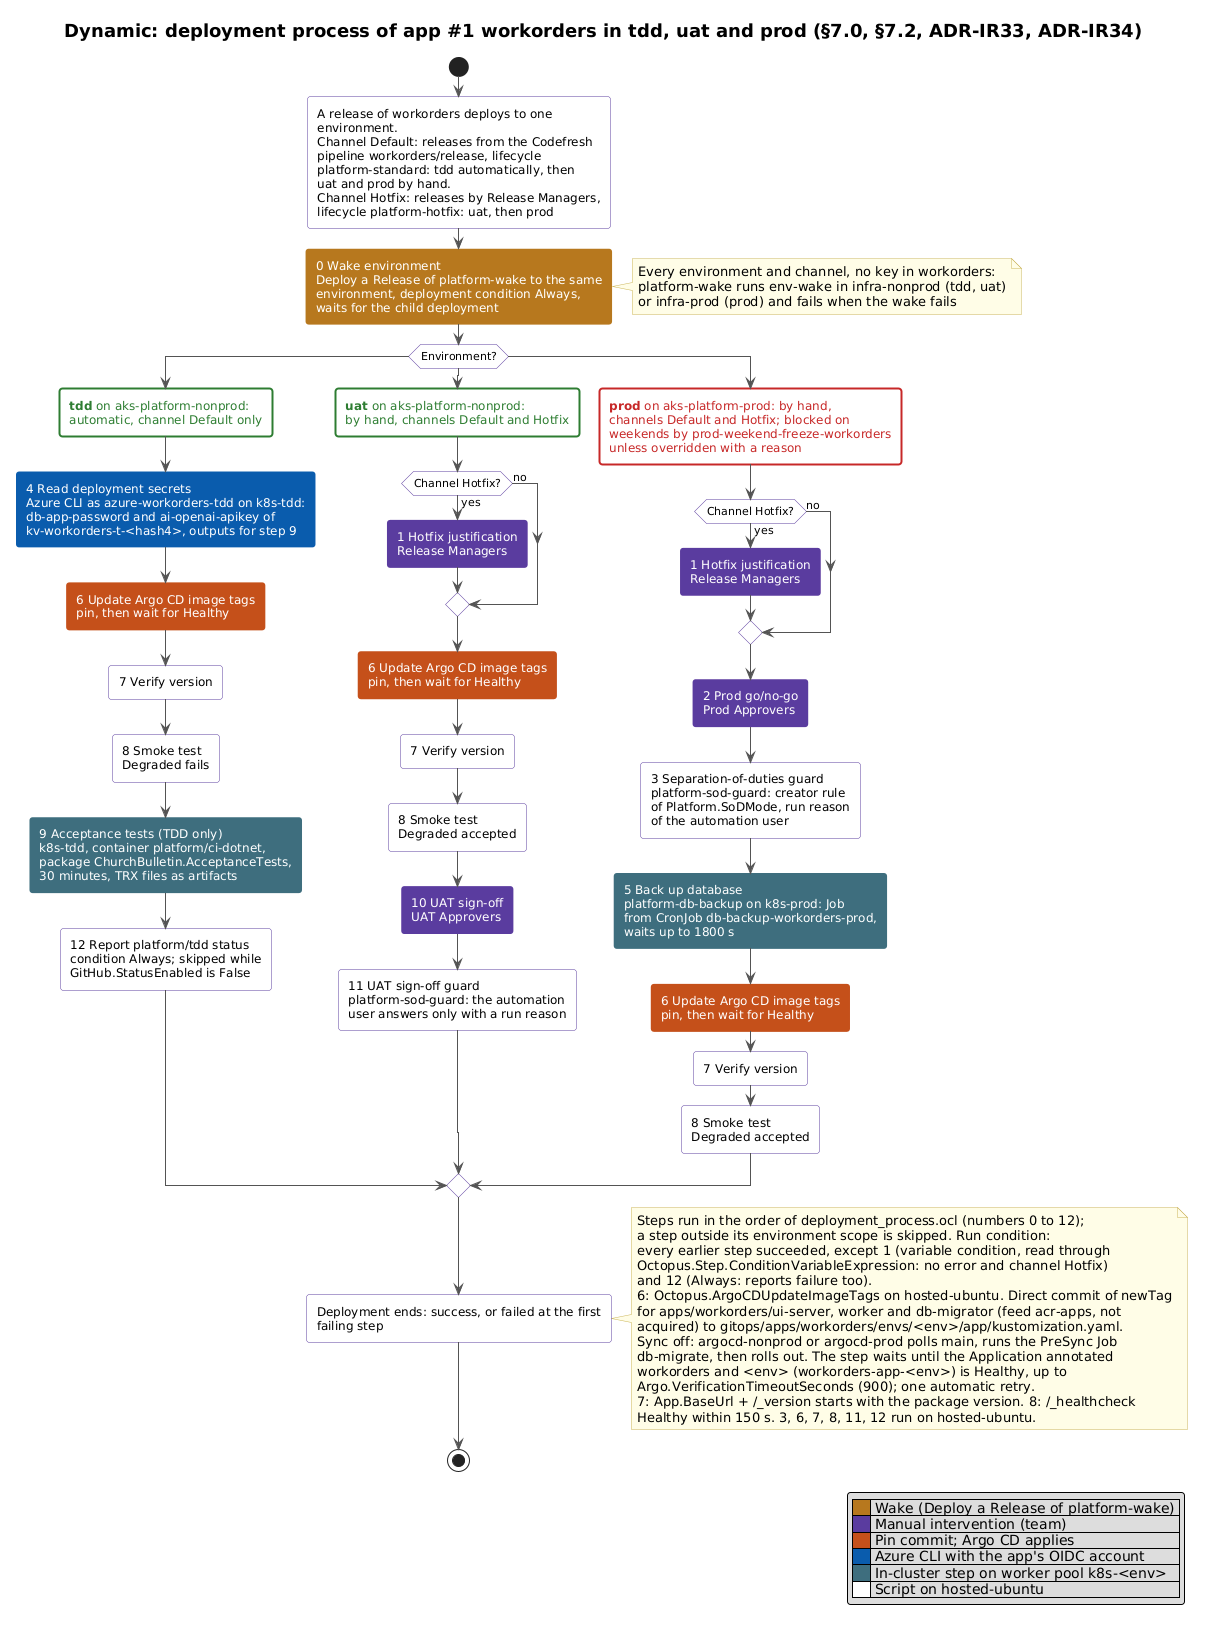
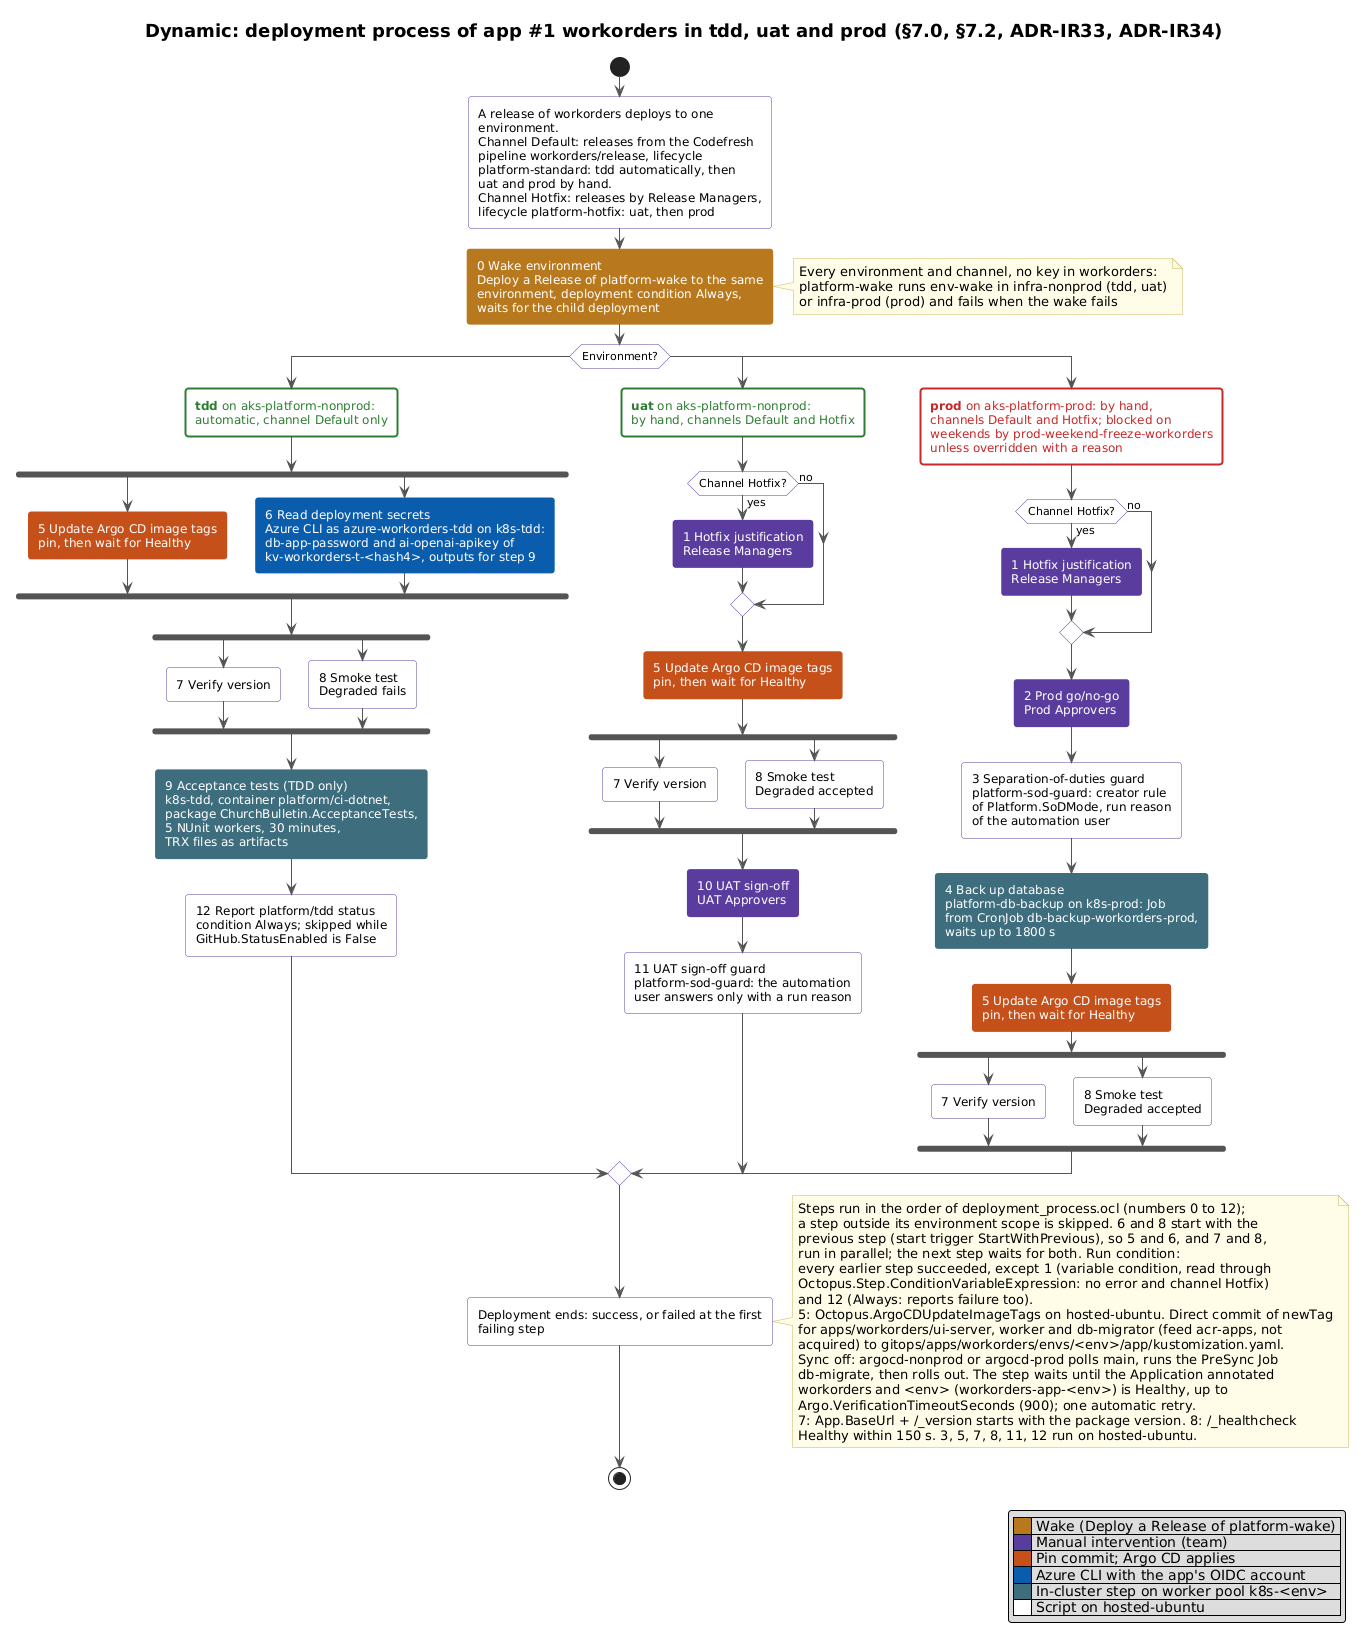
workorders tdd: secrets alongside the pin, 5 NUnit workers, tdd script-pod resources
- read-deployment-secrets moves right after update-argo-cd-image-tags with
  start_trigger StartWithPrevious. Its outputs (AcceptancePassword, OpenAIKey)
  are read only by acceptance-tests; the pin reads nothing from it.
- acceptance-tests passes "-- NUnit.NumberOfTestWorkers=5" (runsettings: 4).
- terraform/tier: new variable octopus_worker_script_pod_resources (chart value
  scriptPods.resources per environment). nonprod sets tdd to requests 400m CPU
  / 2Gi, limit 6Gi memory, no CPU limit. The single 4-vCPU apps node has only
  856m CPU unrequested and script pods cannot leave the agent's node
  (ReadWriteOnce workspace), so a 3-CPU request would stay Pending.
- Docs: walkthroughs 01, 03, 04, the design step table and
  dyn-deployment-process (re-rendered) show the new order and both parallel
  pairs (also verify-version with smoke-test).

Claude-Session: https://claude.ai/code/session_01439y7Z3FdjfM3MQJYmTY9q

diff --git a/design/platform-design.md b/design/platform-design.md
@@ -2572,12 +2572,12 @@ The space as implemented (2026-09-25), with the names of §7.0. ADR-IR34 changed
 | 1 | `hotfix-justification` | Hotfix justification | Manual intervention (`Octopus.Manual`), team `Release Managers`. Variable run condition: channel `Hotfix` and no earlier error. | Channel `Hotfix` (`uat`, `prod` by its lifecycle) | — |
 | 2 | `prod-go-no-go` | Prod go/no-go | Manual intervention, team `Prod Approvers` | `prod` | — |
 | 3 | `sod-guard` | Separation-of-duties guard | Script (Bash): `platform-sod-guard` inlined, for `Prod go/no-go` with the creator check. `Platform.SoDMode` `single-operator` (the default) lets the deployment creator approve with a reason in Notes; `enforce` refuses. The automation user may answer this intervention or `Hotfix justification` only while `Platform.InterventionTestMode` is true, with the reason `conformance:<run-id>` or `e2e:<run-id>` (ADR-IR34 decision 23). Output variables are keyed by step name (ADR-IR22). | `prod` | `hosted-ubuntu` |
-| 4 | `read-deployment-secrets` | Read deployment secrets | Azure CLI script (Bash) with account `#{Azure.DeployAccount}` (`azure-workorders-tdd`). Reads `db-app-password` and `ai-openai-apikey` from `kv-workorders-t-<hash4>` and writes the sensitive outputs `AcceptancePassword` and `OpenAIKey` (empty while the vault holds the stand-in; the AI tests then skip). | `tdd` | `#{Platform.WorkerPool}`; container `#{StepImage.CiDotnet}` from `acr-apps` |
-| 5 | `pre-release-backup` | Back up database | Script (Bash): `platform-db-backup` inlined. A Job from CronJob `db-backup-workorders-prod` in `platform-backup`, awaited for up to 1800 s; a failed backup stops the release before the pin (CAP-OCT-015). | `prod` | `#{Platform.WorkerPool}` |
-| 6 | `update-argo-cd-image-tags` | Update Argo CD image tags | "Update Argo CD Application Image Tags" (`Octopus.ArgoCDUpdateImageTags`, ADR-IR21). Direct commit, sync off, verification "Argo CD Application is healthy", timeout `#{Argo.VerificationTimeoutSeconds}`, one automatic retry after 15 s. | `tdd`, `uat`, `prod` | `hosted-ubuntu`; packages `apps/workorders/ui-server`, `apps/workorders/worker` and `apps/workorders/db-migrator` from feed `acr-apps` (not acquired) |
+| 4 | `pre-release-backup` | Back up database | Script (Bash): `platform-db-backup` inlined. A Job from CronJob `db-backup-workorders-prod` in `platform-backup`, awaited for up to 1800 s; a failed backup stops the release before the pin (CAP-OCT-015). | `prod` | `#{Platform.WorkerPool}` |
+| 5 | `update-argo-cd-image-tags` | Update Argo CD image tags | "Update Argo CD Application Image Tags" (`Octopus.ArgoCDUpdateImageTags`, ADR-IR21). Direct commit, sync off, verification "Argo CD Application is healthy", timeout `#{Argo.VerificationTimeoutSeconds}`, one automatic retry after 15 s. | `tdd`, `uat`, `prod` | `hosted-ubuntu`; packages `apps/workorders/ui-server`, `apps/workorders/worker` and `apps/workorders/db-migrator` from feed `acr-apps` (not acquired) |
+| 6 | `read-deployment-secrets` | Read deployment secrets | Start trigger: with the previous step, so it runs in parallel with `update-argo-cd-image-tags` (only `acceptance-tests` reads its outputs). Azure CLI script (PowerShell) with account `#{Azure.DeployAccount}` (`azure-workorders-tdd`). Reads `db-app-password` and `ai-openai-apikey` from `kv-workorders-t-<hash4>` and writes the sensitive outputs `AcceptancePassword` and `OpenAIKey` (empty while the vault holds the stand-in; the AI tests then skip). | `tdd` | `#{Platform.WorkerPool}`; container `#{StepImage.CiDotnet}` from `acr-apps` |
 | 7 | `verify-version` | Verify version | Script. The `version` field of `#{App.BaseUrl}#{App.VersionPath}` must equal the release number without `-hotfix.<n>`, or start with it followed by `+` or `-`. | `tdd`, `uat`, `prod` | `hosted-ubuntu` |
-| 8 | `smoke-test` | Smoke test | Script. `#{App.BaseUrl}/_healthcheck` must return `Healthy`; `Degraded` fails when `Smoke.FailOnDegraded` is `True`. Retries for 150 s. | `tdd`, `uat`, `prod` | `hosted-ubuntu` |
-| 9 | `acceptance-tests` | Acceptance tests (TDD only) | Script (PowerShell) with the interlocks from ADR-C11: `tdd` only, and `Acceptance.AllowDestructiveReset` must be `True`. `dotnet test` on the package DLL against `#{App.BaseUrl}`, logging in to the tdd database as `#{Db.AppLogin}` with `AcceptancePassword`. TRX files uploaded with `New-OctopusArtifact`. Timeout 30 min. | `tdd` | `#{Platform.WorkerPool}` (`k8s-tdd`); container `#{StepImage.CiDotnet}` from `acr-apps`; package `ChurchBulletin.AcceptanceTests` (built-in feed) |
+| 8 | `smoke-test` | Smoke test | Start trigger: with the previous step, so it runs in parallel with `verify-version`. Script. `#{App.BaseUrl}/_healthcheck` must return `Healthy`; `Degraded` fails when `Smoke.FailOnDegraded` is `True`. Retries for 150 s. | `tdd`, `uat`, `prod` | `hosted-ubuntu` |
+| 9 | `acceptance-tests` | Acceptance tests (TDD only) | Script (PowerShell) with the interlocks from ADR-C11: `tdd` only, and `Acceptance.AllowDestructiveReset` must be `True`. `dotnet test` on the package DLL against `#{App.BaseUrl}`, logging in to the tdd database as `#{Db.AppLogin}` with `AcceptancePassword`. TRX files uploaded with `New-OctopusArtifact`. 5 NUnit workers (`-- NUnit.NumberOfTestWorkers=5`, over the 4 of the app's runsettings); the `k8s-tdd` script pods request 400m CPU with no CPU limit (`octopus_worker_script_pod_resources` in `terraform/tier/nonprod.tfvars`). Timeout 30 min. | `tdd` | `#{Platform.WorkerPool}` (`k8s-tdd`); container `#{StepImage.CiDotnet}` from `acr-apps`; package `ChurchBulletin.AcceptanceTests` (built-in feed) |
 | 10 | `uat-signoff` | UAT sign-off | Manual intervention, team `UAT Approvers` | `uat` | — |
 | 11 | `uat-signoff-guard` | UAT sign-off guard | Script (Bash): `platform-sod-guard` inlined, for `UAT sign-off` without the creator check, so only the automation-user rule applies | `uat` | `hosted-ubuntu` |
 | 12 | `report-commit-status` | Report platform/tdd status | Script. Run condition: always. Skipped unless `GitHub.StatusEnabled` is `True`. Reads the app SHA from the `app-commit:` line of the release notes and posts `#{GitHub.StatusContext}` to `#{GitHub.AppRepository}` with a short-lived installation token of the statuses-only GitHub App (ADR-IR27). | `tdd` | `hosted-ubuntu`; container `octopusdeploy/worker-tools:<worker-tools-version>` from `docker-hub` |

diff --git a/docs/walkthroughs/01-follow-a-commit.md b/docs/walkthroughs/01-follow-a-commit.md
@@ -133,7 +133,7 @@ Work only from the files. Fill in the **Prediction** column first, then check it
 - **P2.** `codefresh/ci`, posted by `<app>/ci` on every same-repository branch push. Fork events are off in every trigger (consistency check C25), so a maintainer pushes the reviewed commits to a branch of the app repository; the status then lands on the same SHA.
 - **P3.** `<acr-name>.azurecr.io/apps/workorders/ui-server`, `…/worker`, `…/db-migrator`, each tagged `<VERSION>` and `sha-<sha7>`, both locked; never `latest`. The shared token `cf-apps-release` writes `apps/*` only, and cannot delete. A push to another app's path is caught later: by the lint (M1), by the tag locks, and in prod by the signer policy, whose subject names the app.
 - **P4.** Project `workorders`, channel `Default`, `--git-ref refs/heads/main`. The OCL lives in the environment repo, where an app SHA does not resolve; traceability comes from build information and the `app-commit:` line.
-- **P5.** `wake-environment` → `read-deployment-secrets` → `update-argo-cd-image-tags` → `verify-version` → `smoke-test` → `acceptance-tests` → `report-commit-status`; the prod and uat steps are skipped. `wake-environment` deploys a release of `platform-wake`, the only project that holds the key; app projects hold none (TB20).
+- **P5.** `wake-environment` → `update-argo-cd-image-tags` and `read-deployment-secrets` (in parallel) → `verify-version` and `smoke-test` (in parallel) → `acceptance-tests` → `report-commit-status`; the prod and uat steps are skipped. `wake-environment` deploys a release of `platform-wake`, the only project that holds the key; app projects hold none (TB20).
 - **P6.** The `images[].newTag` values of `gitops/apps/workorders/envs/tdd/app/kustomization.yaml`. Anything else in a bot commit fails the bot-path audit on `main`.
 - **P7.** Application `workorders-app-tdd`, project `app-workorders`, path `gitops/apps/workorders/envs/tdd/app`, namespace `workorders-tdd`. The tenant chart renders it inside `tenant-workorders`, which the ApplicationSet `apps` renders from `apps/workorders.yaml`.
 - **P8.** `<acr-name>.azurecr.io/apps/workorders/ui-server:<newTag from the pin file>`; the base declares no tag.

diff --git a/docs/walkthroughs/03-promotion-and-hotfix.md b/docs/walkthroughs/03-promotion-and-hotfix.md
@@ -50,9 +50,9 @@ All promotion decisions live in Octopus (ADR-D13): one audit trail, one calendar
 
 | Environment | Default channel | Hotfix channel adds |
 |---|---|---|
-| `tdd` | `wake-environment` → `read-deployment-secrets` → `update-argo-cd-image-tags` → `verify-version` → `smoke-test` → `acceptance-tests` → `report-commit-status` | (not in the lifecycle) |
-| `uat` | `wake-environment` → `update-argo-cd-image-tags` → `verify-version` → `smoke-test` → `uat-signoff` → `uat-signoff-guard` | `hotfix-justification` right after `wake-environment` |
-| `prod` | `wake-environment` → `prod-go-no-go` → `sod-guard` → `pre-release-backup` → `update-argo-cd-image-tags` → `verify-version` → `smoke-test` | `hotfix-justification` right after `wake-environment` |
+| `tdd` | `wake-environment` → `update-argo-cd-image-tags` and `read-deployment-secrets` (in parallel) → `verify-version` and `smoke-test` (in parallel) → `acceptance-tests` → `report-commit-status` | (not in the lifecycle) |
+| `uat` | `wake-environment` → `update-argo-cd-image-tags` → `verify-version` and `smoke-test` (in parallel) → `uat-signoff` → `uat-signoff-guard` | `hotfix-justification` right after `wake-environment` |
+| `prod` | `wake-environment` → `prod-go-no-go` → `sod-guard` → `pre-release-backup` → `update-argo-cd-image-tags` → `verify-version` and `smoke-test` (in parallel) | `hotfix-justification` right after `wake-environment` |
 
 The migration is not an Octopus step: the PreSync Job `db-migrate` runs inside the sync that the pin commit starts (Lab 19).
 

diff --git a/docs/walkthroughs/04-drift-and-rollback.md b/docs/walkthroughs/04-drift-and-rollback.md
@@ -53,7 +53,7 @@ The platform engineer deploys a release whose migration fails in `tdd`. Observe:
 
 ### Step 4: Roll back a bad release
 
-The platform engineer deploys a release that migrates but fails `smoke-test`. Then, in Octopus, **redeploy previous release** to `tdd`. Observe the order: `wake-environment` → `read-deployment-secrets` → `update-argo-cd-image-tags` (commits the older tags) → PreSync `db-migrate` (no-op) → rolling update → `verify-version` → `smoke-test` → `acceptance-tests`. Time it; P2 exit drill 5 requires under 15 minutes from an awake cluster (CAP-OCT-007).
+The platform engineer deploys a release that migrates but fails `smoke-test`. Then, in Octopus, **redeploy previous release** to `tdd`. Observe the order: `wake-environment` → `update-argo-cd-image-tags` (commits the older tags; `read-deployment-secrets` runs alongside it) → PreSync `db-migrate` (no-op) → rolling update → `verify-version` and `smoke-test` (in parallel) → `acceptance-tests`. Time it; P2 exit drill 5 requires under 15 minutes from an awake cluster (CAP-OCT-007).
 
 ### Step 5: Read the audit trail
 
